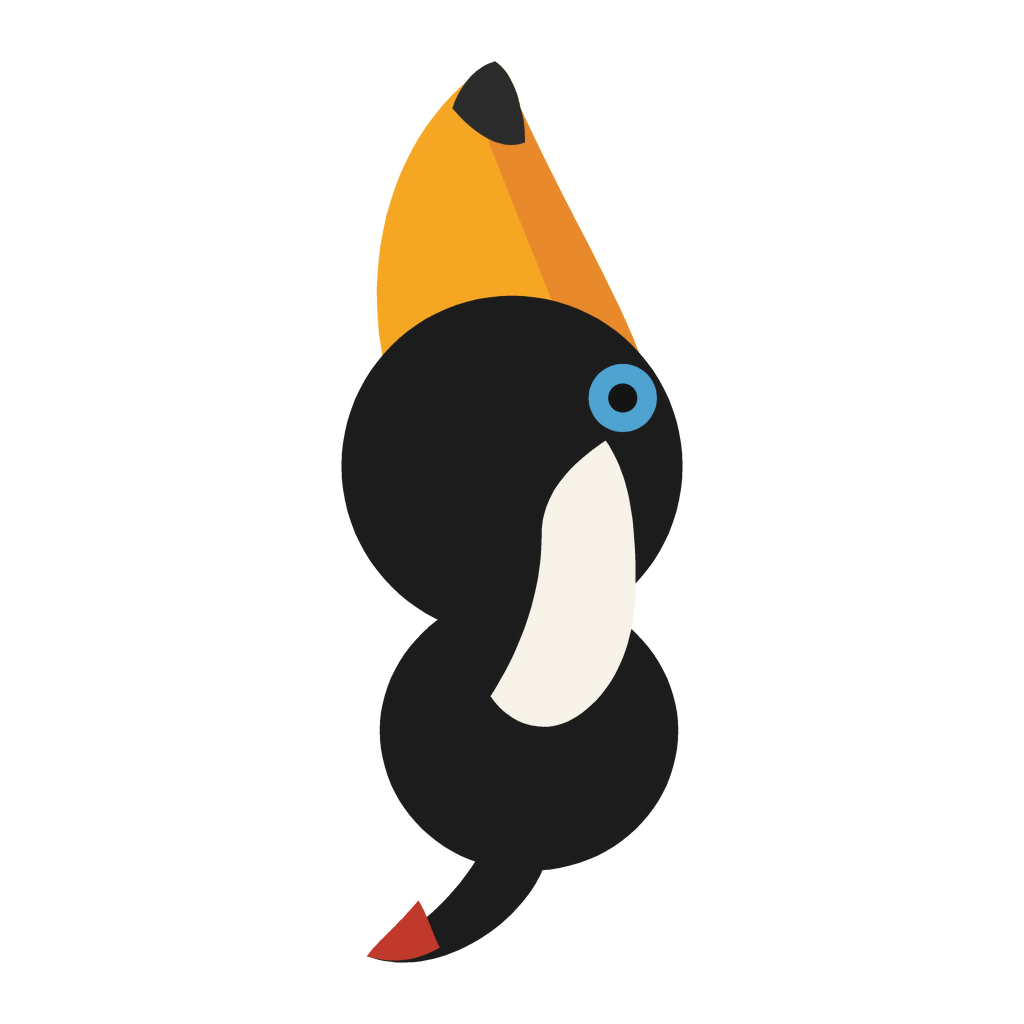
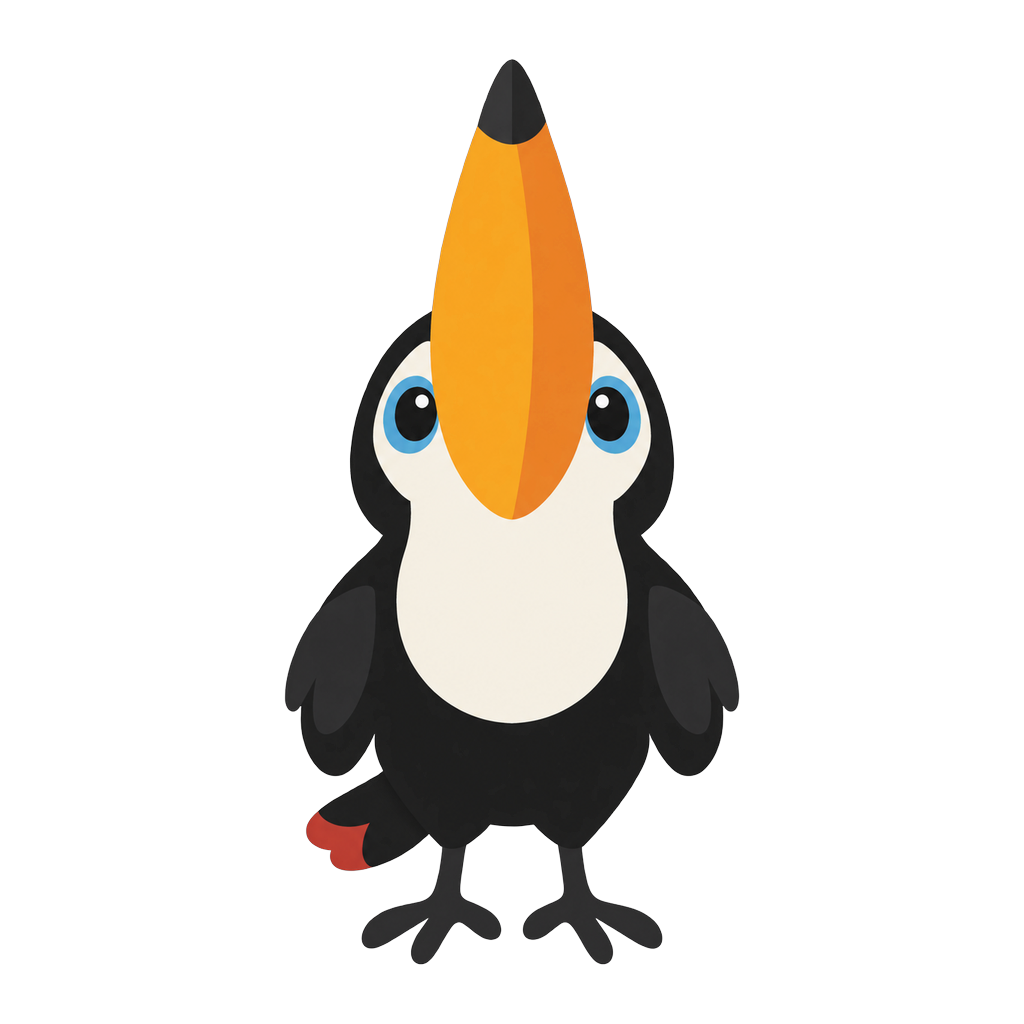
feat(assets): オオハシ画像をGPT生成の新デザインに差し替え
- 生成画像（1254px・透過）を白フリンジ除去→トリミング→1024角・高さ88.5%・中央に正規化して mobile/assets/toucan.png を更新
- 旧レイアウト互換（クチバシ上向き0°・中心回転）のため Bird.tsx は変更なし
- 実機確認: オンボーディングで正立表示、メイン画面で相対方位に応じて回転（180°=真後ろ）
- ビルド注意: アセットのみ変更時は bundle 出力（generated/assets/react）を削除して再ビルド（production-build.md §10.8）
- docs: architecture §21 / device-verification V7 追加、ソース画像とプレビューを保存

Changed region(s): [[0.2812, 0.0625, 0.7188, 0.9375]]

diff --git a/docs/research/device-verification.md b/docs/research/device-verification.md
@@ -348,3 +348,36 @@
 | 7 | 単体テスト・型検査 | ✅ **35 suites / 645 tests PASS**・`tsc` 0 |
 
 証跡: `device-v6-main-2026-10-30.png` / `device-v6-devmenu-2026-10-30.png` / `device-v6-status-detail-2026-10-30.png`
+
+---
+
+## V7 検証: オオハシ画像の差し替え（2026-10-30）
+
+### 背景（ユーザー要望）
+「オオハシの画像もクオリティ低いから GPT の画像生成で用意する」→ 生成画像を透過処理・正規化してアセット差し替え。
+
+### 処理内容
+- 生成画像（1254×1254 / RGBA / 背景は既に透過）を受け取り、
+  - **白背景アンマット**: 半透明エッジ画素（11,462 画素）を `RGB = a*bird + (1-a)*white` から逆算して白フリンジを除去
+  - **トリミング**: alpha>8 のバウンディングボックス（608×1208）
+  - **正規化**: 1024×1024・高さ 88.5%・中央配置（旧アセットと同じレイアウト。回転時に欠けない）
+  - 四隅 alpha=0 を確認、`mobile/assets/toucan.png`（267KB）に保存
+- ソース画像は `docs/assets/toucan-source-2026-10-30.png` に保存（再現用）
+- プレビュー: `docs/assets/toucan-preview-cream.png`（クリーム背景合成）
+
+### ビルド時の注意（重要）
+- **アセットだけを変更した場合、Gradle のバンドルタスクが UP-TO-DATE のままで APK に旧画像が残る**ことがある。
+  → `android/app/build/generated/assets/react` と `android/app/build/intermediates/assets/debug` を削除してから再ビルドする。
+- 確認方法: APK 内の `res/drawable-mdpi-v4/assets_toucan.png` のサイズが新アセットと一致するか（旧 43,350 B → 新 267,269 B）。
+
+### 実機検証（Pixel 4a）
+
+| # | 検証項目 | 結果 |
+|---|---|---|
+| 1 | オンボーディング（0°上向き） | ✅ 新オオハシが正立表示 |
+| 2 | メイン画面（相対方位 180°） | ✅ 新オオハシが 180° 回転（クチバシが下向き＝真後ろ） |
+| 3 | 透過・白フリンジ | ✅ クリーム背景でハローなし |
+| 4 | クラッシュ / ANR | ✅ 0 件 |
+| 5 | 単体テスト・型検査 | ✅ 35 suites / 645 tests PASS・`tsc` 0 |
+
+証跡: `device-v7-toucan-onboarding-2026-10-30.png` / `device-v7-toucan-rotated-2026-10-30.png` / `toucan-preview-cream.png`

diff --git a/docs/research/production-build.md b/docs/research/production-build.md
@@ -493,3 +493,19 @@ Expo Go では動作しない（APK / development build のみ）。
   - `ui/components/OsmMapView.tsx`: タイル描画・タップ選択・帰属表示
 - ビルド設定の変更は不要（API キー環境変数は不要になった）。
 - OSM タイル利用ポリシー: 大量アクセス禁止・帰属表示必須・識別可能な User-Agent 推奨。本番規模では自前タイルサーバ / MapTiler / Stadia Maps 等を検討。
+
+---
+
+## 10.8 画像アセットだけ変更した場合の再ビルド手順（2026-10-30）
+
+RN/Expo のバンドルタスクは JS の変更を入力にしているため、**画像アセットだけを差し替えると APK に旧画像が残る**ことがある。
+
+```powershell
+# バンドル成果物を削除してから再ビルド
+Remove-Item -Recurse -Force C:\w\app\android\app\build\generated\assets\react
+Remove-Item -Recurse -Force C:\w\app\android\app\build\intermediates\assets\debug
+cd C:\w\app\android
+.\gradlew.bat assembleDebug --no-daemon
+```
+
+確認: APK 内 `res/drawable-mdpi-v4/assets_toucan.png` のサイズが新しいアセットと一致すること。
